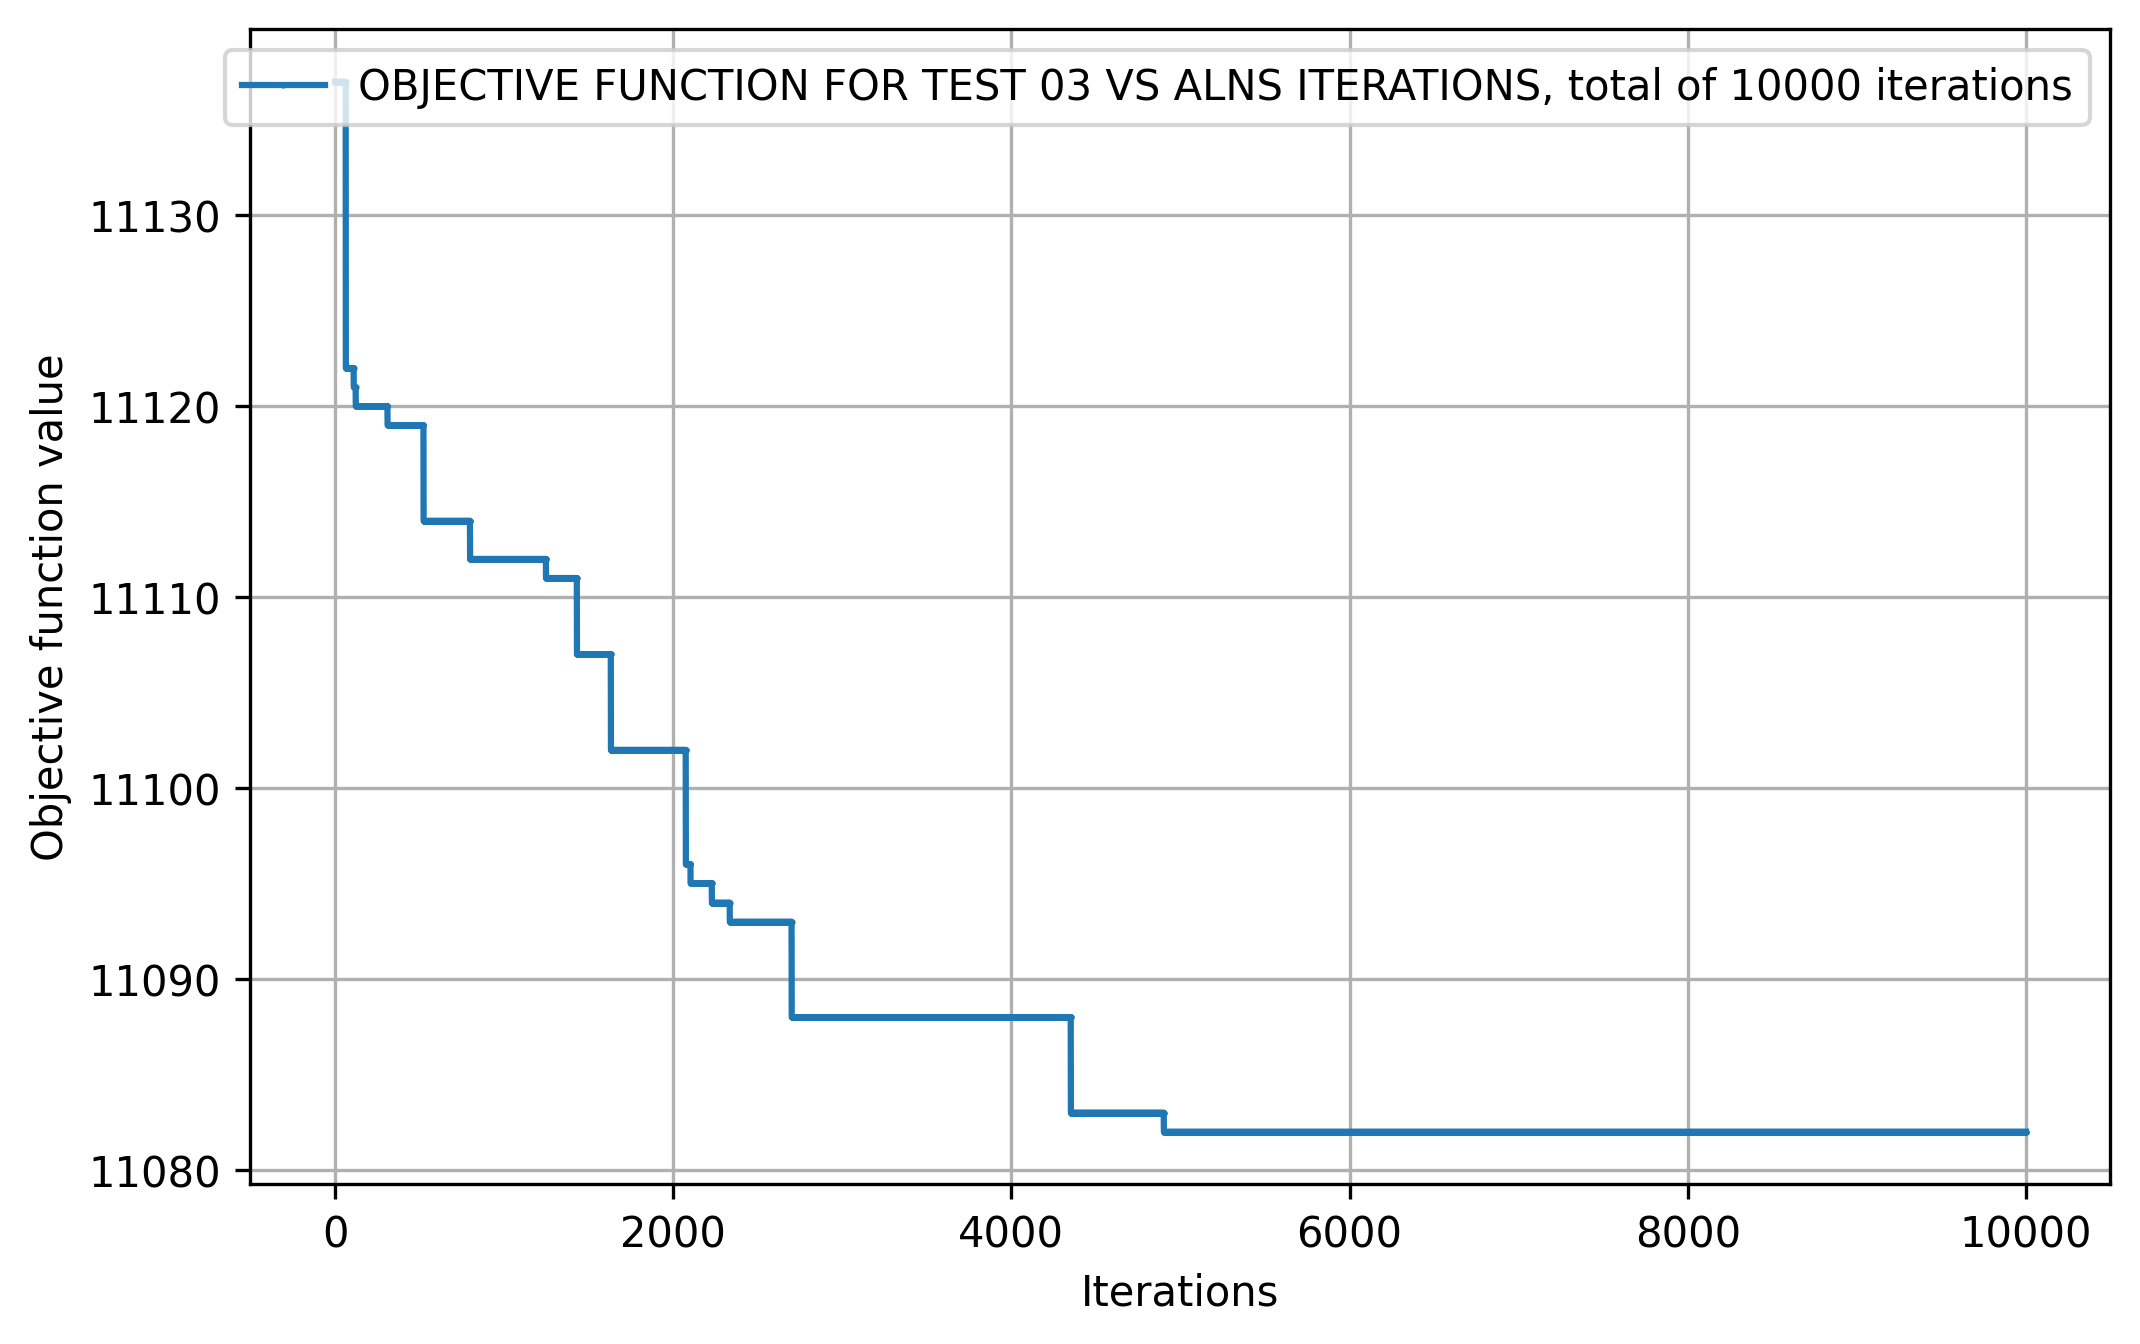
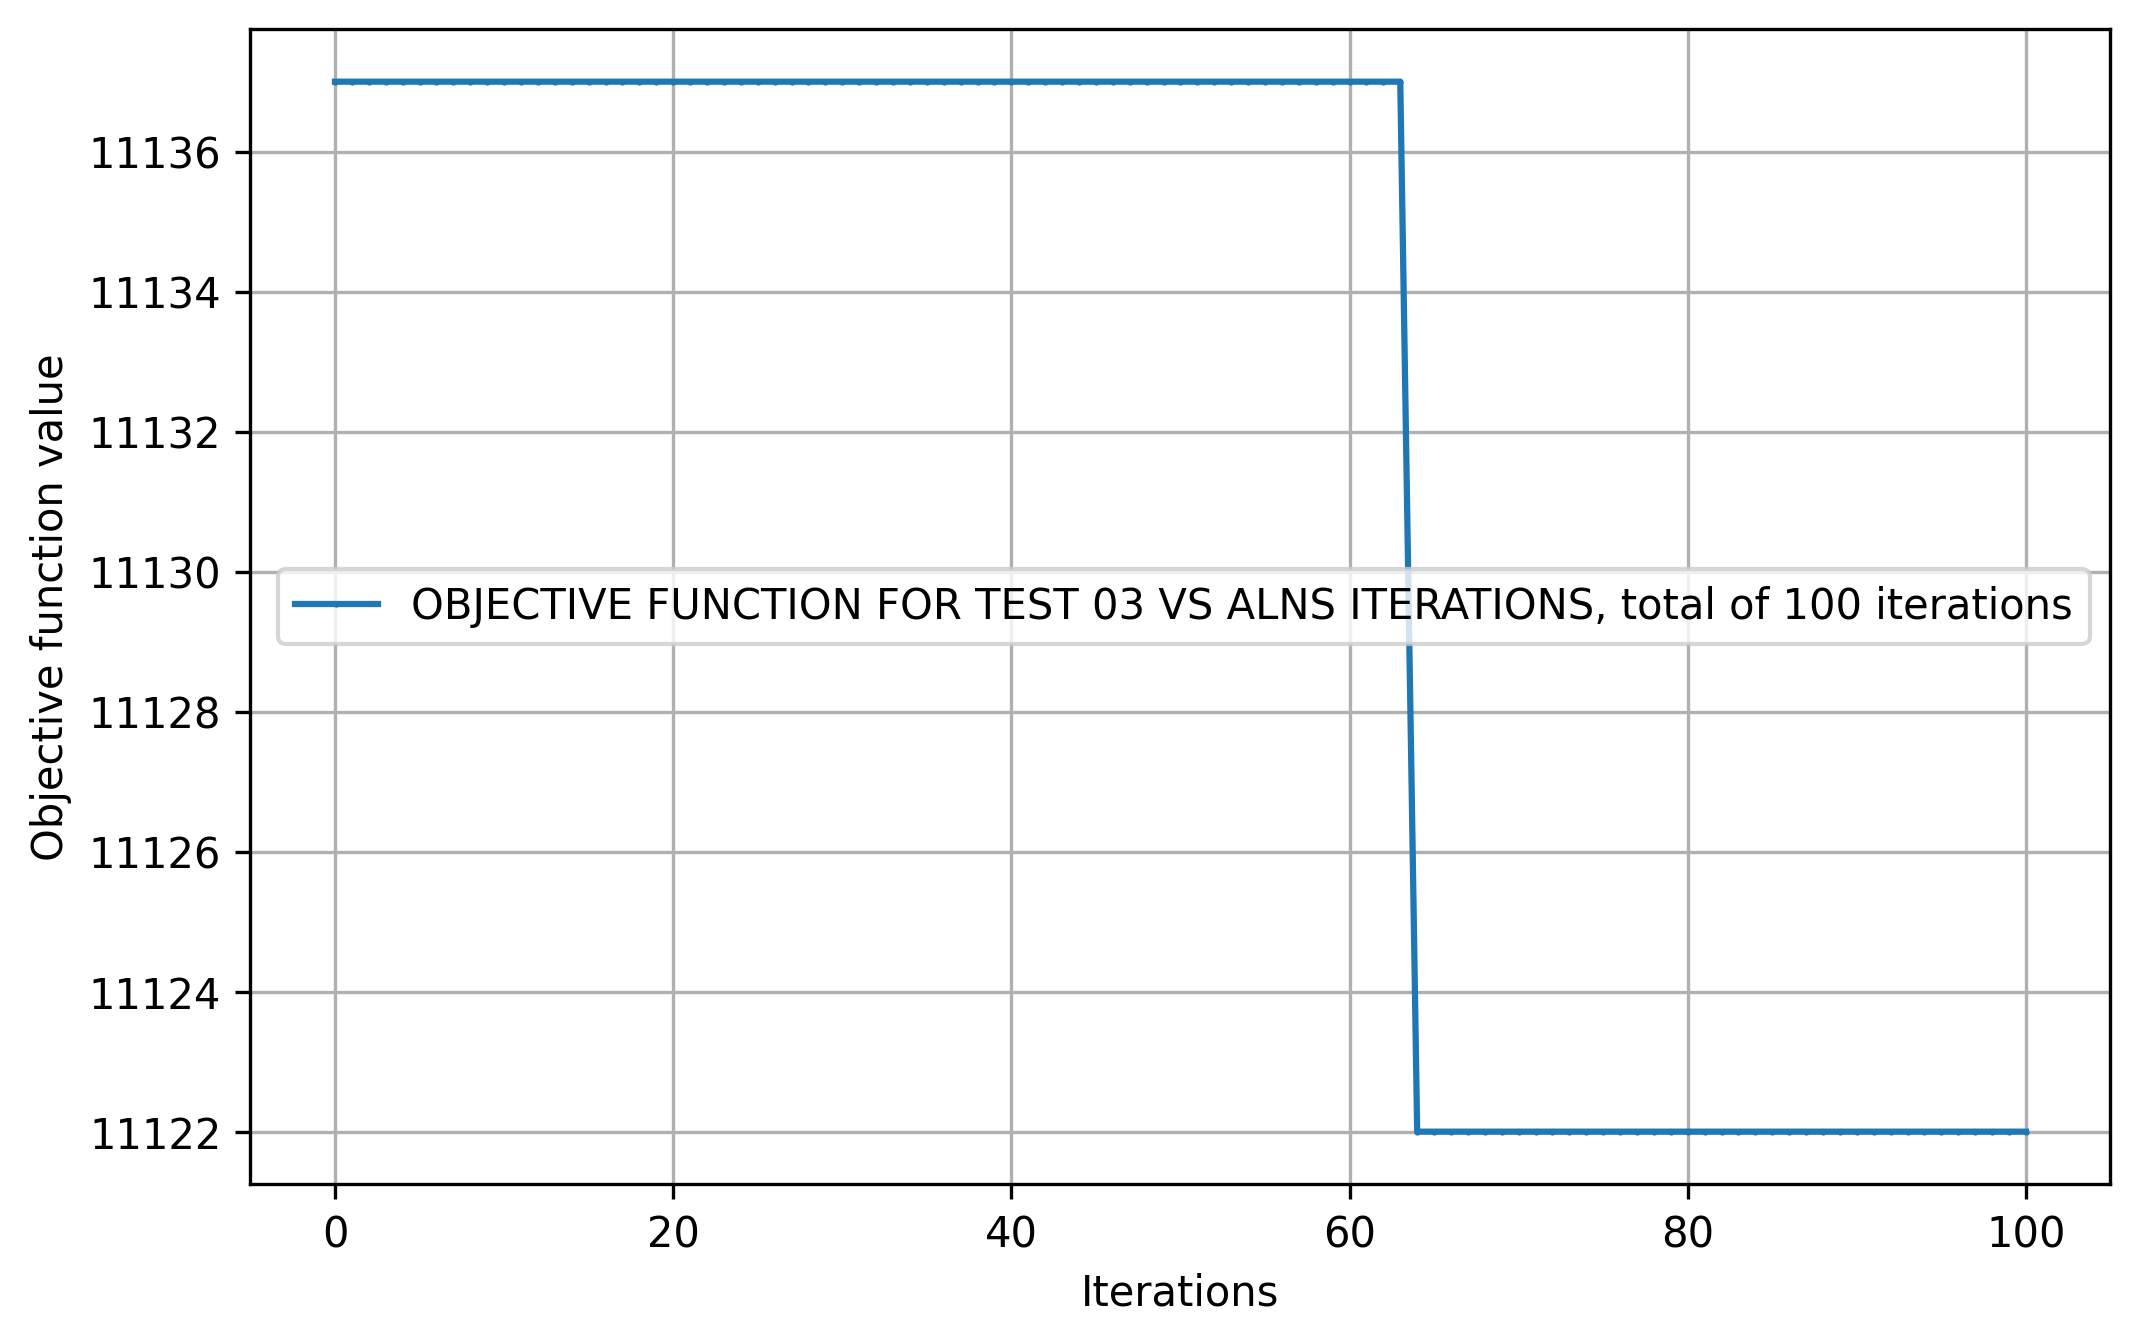
non mi ero accorto del metodo string dentro init di Tempo, questo è il mio ultimo commit, è stato un piacere bestemmiare dietro questo lavoro

diff --git a/main.py b/main.py
@@ -53,7 +53,7 @@ def main():
 
     #  reading
 
-    filename = 'test10.json'
+    filename = 'test03.json'
 
     with open('test_data/'+filename, 'r') as file:
         data = json.load(file)
@@ -154,7 +154,7 @@ def main():
 
     # solving the problem
 
-    number_of_iterations = 10000
+    number_of_iterations = 100
 
     solver = ALNS(problem, init_solution)
 

diff --git a/instances/hospital.py b/instances/hospital.py
@@ -13,8 +13,8 @@ class Times :
         # For the shifts
         self.shifts = shifts
 
-        def __str__(self):
-            return f"Time: {self.T} Shifts: {self.shifts}"
+    def __str__(self):
+        return f"Time: {self.T} Shifts: {self.shifts}"
 
         
 
